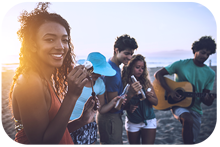
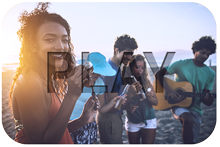
redesign hero

diff --git a/frontend/components/hero/hero.jsx b/frontend/components/hero/hero.jsx
@@ -8,23 +8,7 @@ class Hero extends React.Component {
   constructor(props) {
     super(props)
 
-    this.handleClick = this.handleClick.bind(this);
-    this.toggleShow = this.toggleShow.bind(this);
   }
-
-  toggleShow(target) {
-    if (target === this.props.visibleComponent && this.props.expanderVisible === true) {
-      this.props.showExpander(false);
-    } else {
-      this.props.showExpander(true);
-    }
-  };
-
-  handleClick(event) {
-    const target = event.currentTarget.name;
-    this.toggleShow(target);
-    this.props.setComponent(target);
-  };
 
   render() {
     return(
@@ -32,30 +16,20 @@ class Hero extends React.Component {
         <div className='upper-hero-spacer'></div>
         <div className='hero-image'>
 
-          <div className='hero-text'>
+          <div>
             <SearchContainer location='hero' />
           </div>
+
           <div className='container'>
-            <div className='hero-lower-third' >
-              <div className='hero-lower-third-item'>
-                <img src={window.girlAtCliff} name='travel' onClick={this.handleClick}/>
-                <h4>
-                  Travel
-                </h4>
-              </div>
-              <div className='hero-lower-third-item'>
-                <img src={window.fishingBoat} name='work' onClick={this.handleClick}/>
-                <h4>
-                  Work
-                </h4>
-              </div>
-              <div className='hero-lower-third-item'>
-                <img src={window.peopleOnBeach} name='play' onClick={this.handleClick}/>
-                <h4>
-                  Play
-                </h4>
-              </div>
+            <div className='identity'>
+              <h1>Froliq</h1>
             </div>
+            <div className='slogan'>
+              <img src={window.frogIcon} />
+              <h2>Travel.</h2><h2>Work.</h2><h2>Play.</h2>
+              <img src={window.lilyIcon} />
+            </div>
+          
           </div>
         </div>
         <div className='lower-hero-spacer'></div>

diff --git a/frontend/components/expander/expander_switch.jsx b/frontend/components/expander/expander_switch.jsx
@@ -1,0 +1,49 @@
+import React from 'react';
+
+class ExpanderSwitch extends React.Component {
+  constructor(props) {
+    super(props);
+
+    this.handleClick = this.handleClick.bind(this);
+    this.toggleShow = this.toggleShow.bind(this);
+  }
+
+  toggleShow(target) {
+    if (target === this.props.visibleComponent && this.props.expanderVisible === true) {
+      this.props.showExpander(false);
+    } else {
+      this.props.showExpander(true);
+    }
+  };
+
+  handleClick(event) {
+    const target = event.currentTarget.name;
+    this.toggleShow(target);
+    this.props.setComponent(target);
+  };
+
+  render() {
+    return (
+      <div className='container-fluid'>
+        <div className='row'>
+          <div className='switch-container'>
+            <div className='switch-item'>
+              <img src={window.girlAtCliff} name='travel' onClick={this.handleClick}/>
+              <h4>Travel</h4>
+            </div>
+            <div className='switch-item'>
+              <img src={window.fishingBoat} name='work' onClick={this.handleClick}/>
+              <h4>Work</h4>
+            </div>
+            <div className='switch-item'>
+              <img src={window.peopleOnBeach} name='play' onClick={this.handleClick}/>
+              <h4>Play</h4>
+            </div>
+          </div>
+        </div>
+      </div>
+    );
+  };
+};
+
+export default ExpanderSwitch;

diff --git a/app/assets/stylesheets/search.scss b/app/assets/stylesheets/search.scss
@@ -3,18 +3,18 @@
  .hero-search {
    text-align: center;
    position: absolute;
-   top: 50%;
+   top: 55%;
    left: 50%;
    width: 560px;
    transform: translate(-50%, -50%);
    color: white;
-   border-radius: 12px;
+   border-radius: 16px;
    box-shadow: 1px 1px 10px $deeper-brown-transparent;
  }
 
 .hero-search input {
   outline: none;
-  text-indent: 70px;
+  text-indent: 50px;
   width: 450px;
   border-radius: 10px;
   padding: 10px;
@@ -28,12 +28,12 @@
  position: absolute;
  left: 0;
  text-align: right;
- padding: 0 25px 0 10px;
+ padding: 0 15px 0 5px;
  top: -10px;
  height: 100%;
- width: 120px;
+ width: 100px;
  border-right: none;
- border-radius: 12px 0 0 12px;
+ border-radius: 16px 0 0 16px;
  background-color: $calm-blue;
  line-height: 40px;
  color: $cloud-white;
@@ -41,7 +41,6 @@
 }
 
 .hero-search input::placeholder {
-
  color: $light-gray;
 }
 
@@ -51,10 +50,10 @@
  text-align: center;
  top: 0;
  height: 100%;
- width: 70px;
+ width: 100px;
  outline: none;
  border: none;
- border-radius: 0 12px 12px 0;
+ border-radius: 0 16px 16px 0;
  background-color: $calm-blue;
  line-height: 30px;
  color: $cloud-white;

diff --git a/frontend/components/hero/hero_container.js b/frontend/components/hero/hero_container.js
@@ -1,20 +1,16 @@
 import { connect } from 'react-redux';
 import Hero from './hero';
-import { receiveShow, receiveComponent } from '../../actions/expander_actions';
 
 const mapStateToProps = (state, ownProps) => {
   return {
-    loggedIn: state.session.currentUser !== null,
-    visibleComponent: state.expander.component,
-    expanderVisible: state.expander.show
-  }
-}
+    loggedIn: state.session.currentUser !== null
+  };
+};
 
 const mapDispatchToProps = (dispatch) => {
   return {
-    showExpander: (bool) => dispatch(receiveShow(bool)),
-    setComponent: component => dispatch(receiveComponent(component))
-  }
-}
+
+  };
+};
 
 export default connect(mapStateToProps, mapDispatchToProps)(Hero);

diff --git a/frontend/components/expander/expander_switch_container.js b/frontend/components/expander/expander_switch_container.js
@@ -1,0 +1,21 @@
+import { connect } from 'react-redux';
+import ExpanderSwitch from './expander_switch';
+import { receiveShow, receiveComponent } from '../../actions/expander_actions';
+
+const mapStateToProps = (state) => {
+
+  return {
+    visibleComponent: state.expander.component,
+    expanderVisible: state.expander.show
+  };
+};
+
+  const mapDispatchToProps = (dispatch) => {
+
+  return {
+    showExpander: (bool) => dispatch(receiveShow(bool)),
+    setComponent: component => dispatch(receiveComponent(component))
+  };
+};
+
+export default connect(mapStateToProps, mapDispatchToProps)(ExpanderSwitch);

diff --git a/frontend/components/app.jsx b/frontend/components/app.jsx
@@ -3,6 +3,7 @@ import HeaderContainer from './header/header_container'
 import HeroContainer from './hero/hero_container';
 import Pitch from './pitch/pitch';
 import FooterContainer from './footer/footer_container';
+import ExpanderSwitchContainer from './expander/expander_switch_container';
 import ExpanderContainer from './expander/expander_container';
 
 const App = (props) => (
@@ -10,6 +11,7 @@ const App = (props) => (
   <div>
     <HeaderContainer />
     <HeroContainer />
+    <ExpanderSwitchContainer />
     <ExpanderContainer />
     <Pitch />
     <FooterContainer />

diff --git a/app/assets/stylesheets/expanders/expander_switch.scss b/app/assets/stylesheets/expanders/expander_switch.scss
@@ -1,0 +1,23 @@
+@import '../variables';
+
+.switch-container {
+  text-align: center;
+  display: flex;
+  justify-content: center;
+  align-items: center;
+  width: 100%;
+  height: 210px;
+  border-bottom: 1px solid $light-gray;
+}
+
+.switch-item {
+  padding: 20px 10px 5px 10px;
+  cursor: pointer;
+}
+
+.switch-item h4 {
+  font-family: $satisfy;
+  color: $blue;
+  padding: 5px;
+  margin: 0;
+}

diff --git a/app/assets/stylesheets/expanders/expander.scss b/app/assets/stylesheets/expanders/expander.scss
@@ -18,7 +18,7 @@
   border-bottom: 1px solid $light-gray;
   margin: 0;
   padding: 0;
-  height: 400px;
+  height: 440px;
 }
 
 .expander-element {
@@ -36,7 +36,7 @@
   width: 700px;
   border-radius: 25px;
   border: 1px solid $light-gray;
-  box-shadow: 0 0 40px 10px $highlight-gray;
+  box-shadow: 0 0 20px $highlight-gray;
 }
 
 .expander h3 {

diff --git a/frontend/components/header/header.jsx b/frontend/components/header/header.jsx
@@ -32,7 +32,6 @@ class Header extends React.Component {
           <header className='clearfix'>
             <div className='logo' >
               <Link to='/'>Froliq</Link>
-              <div className='jumping-frog' />
             </div>
             {links}
           </header>
